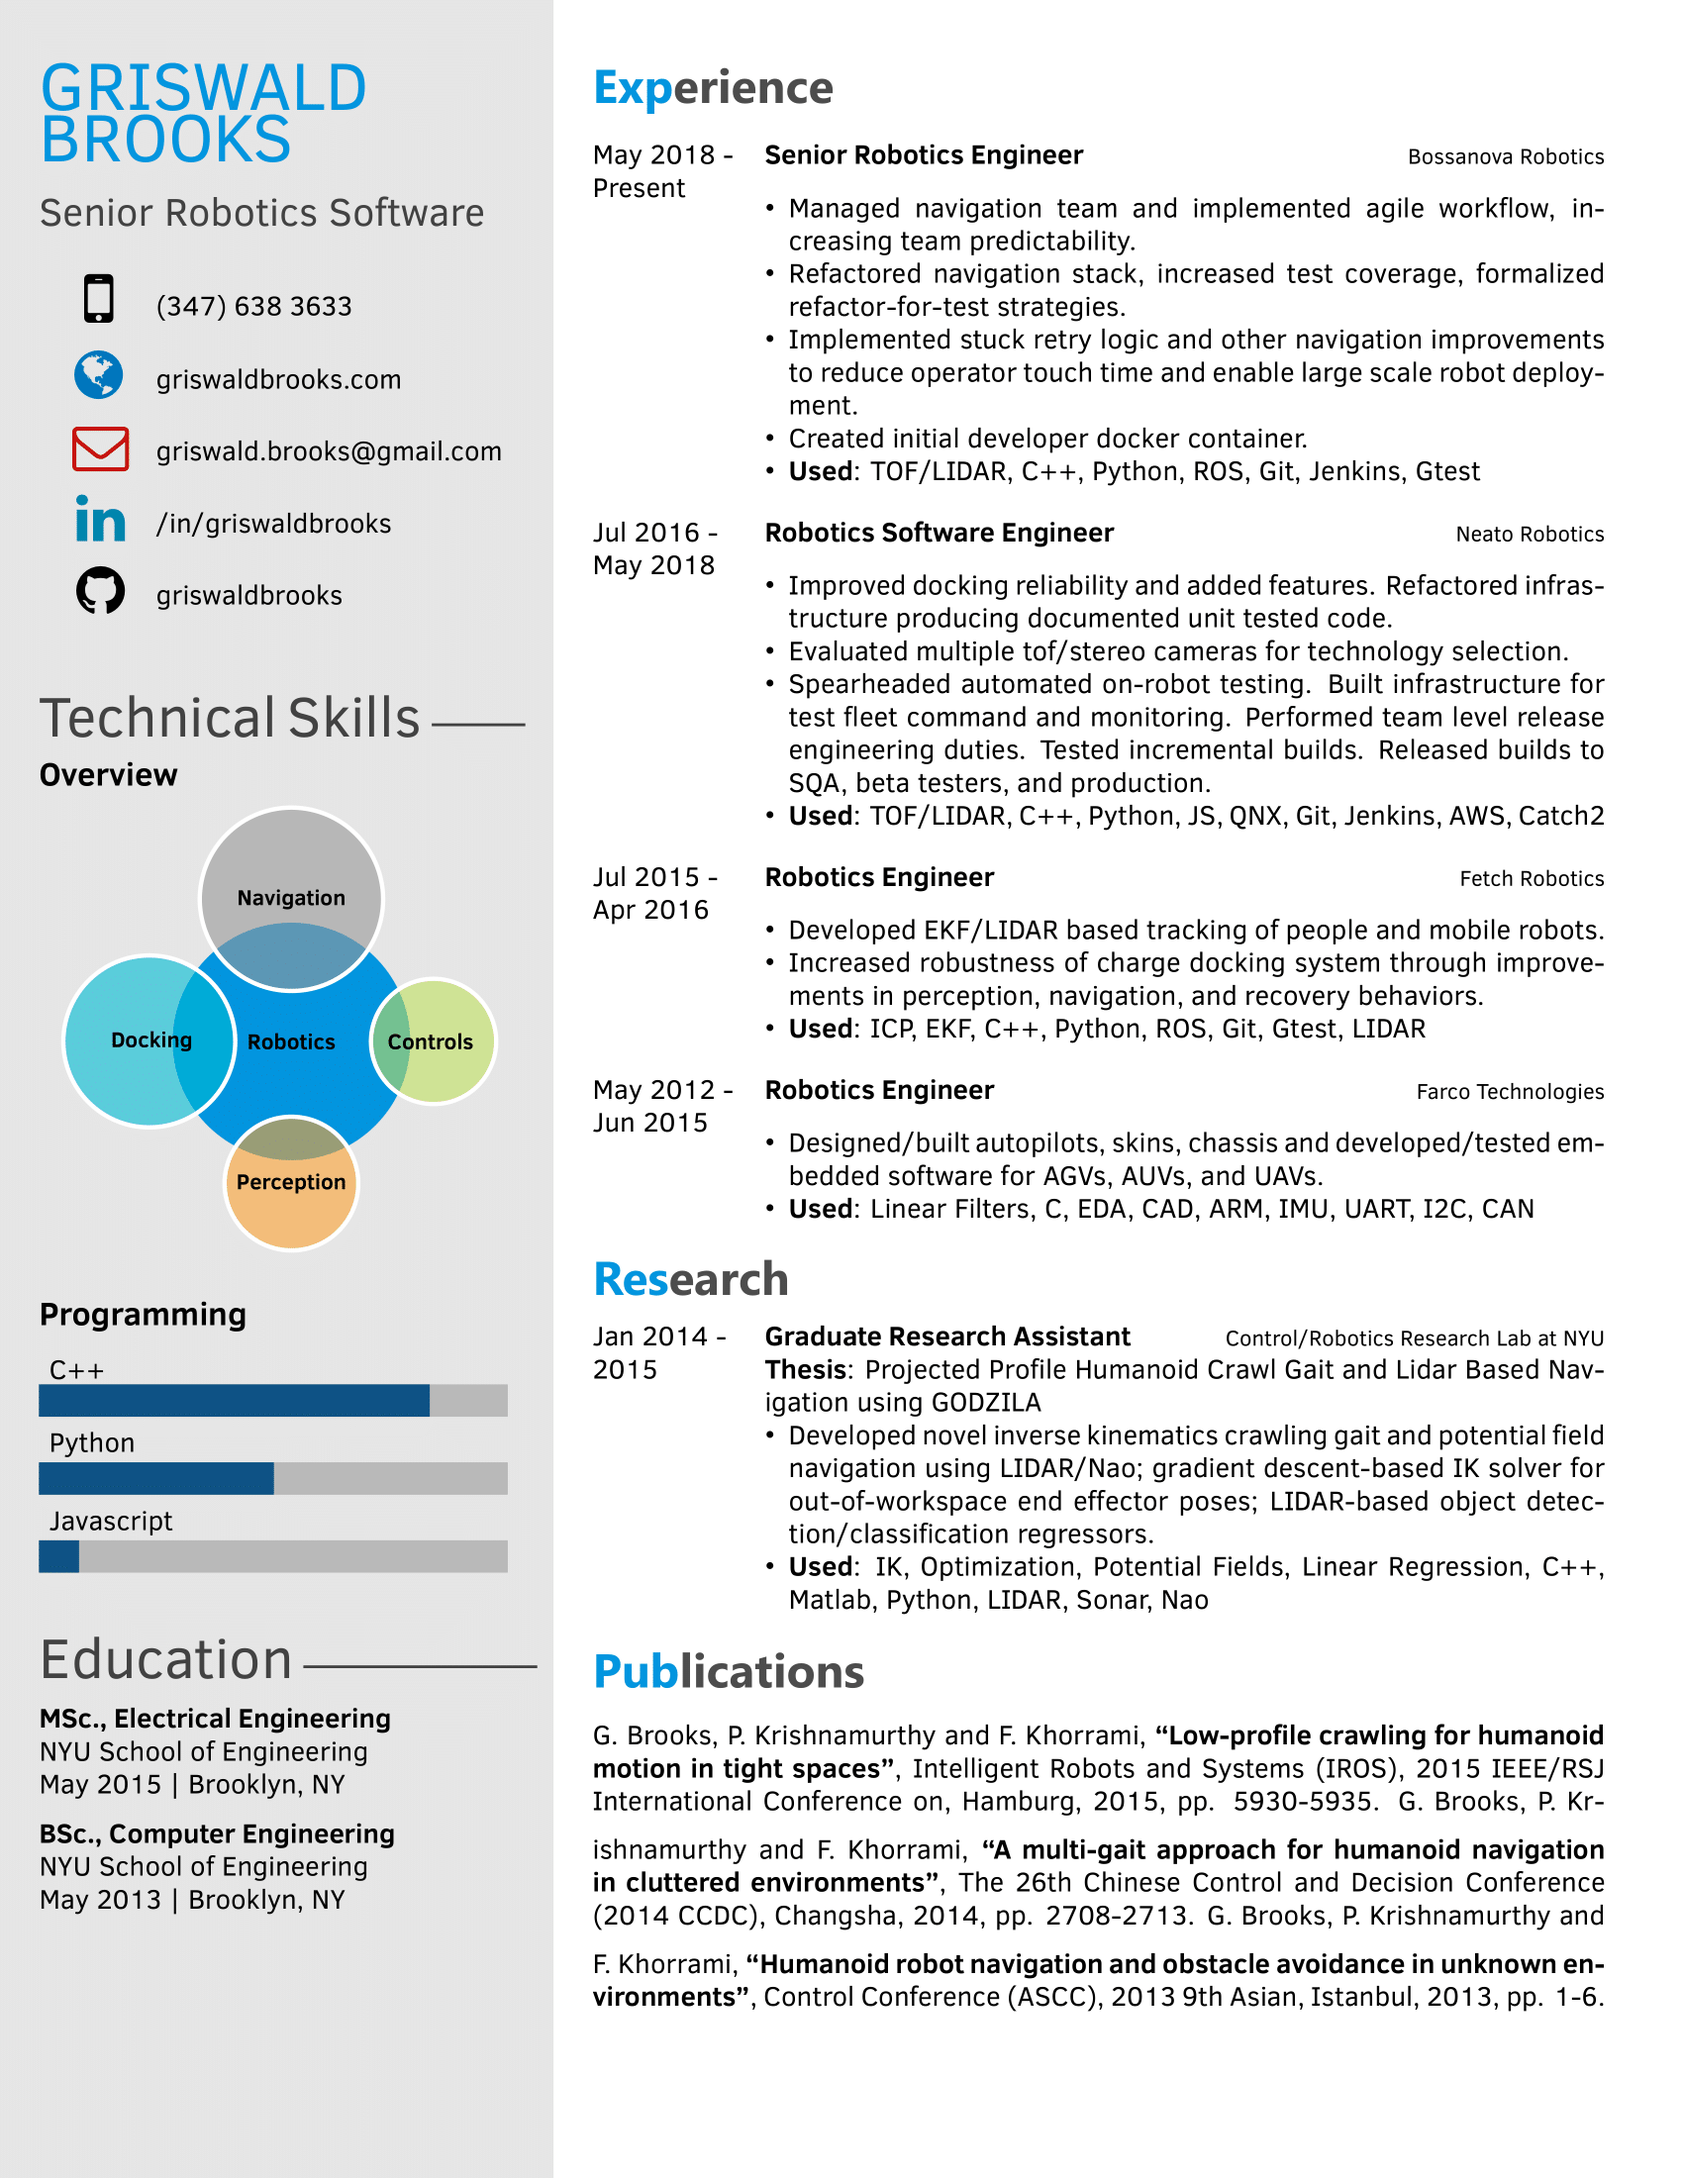
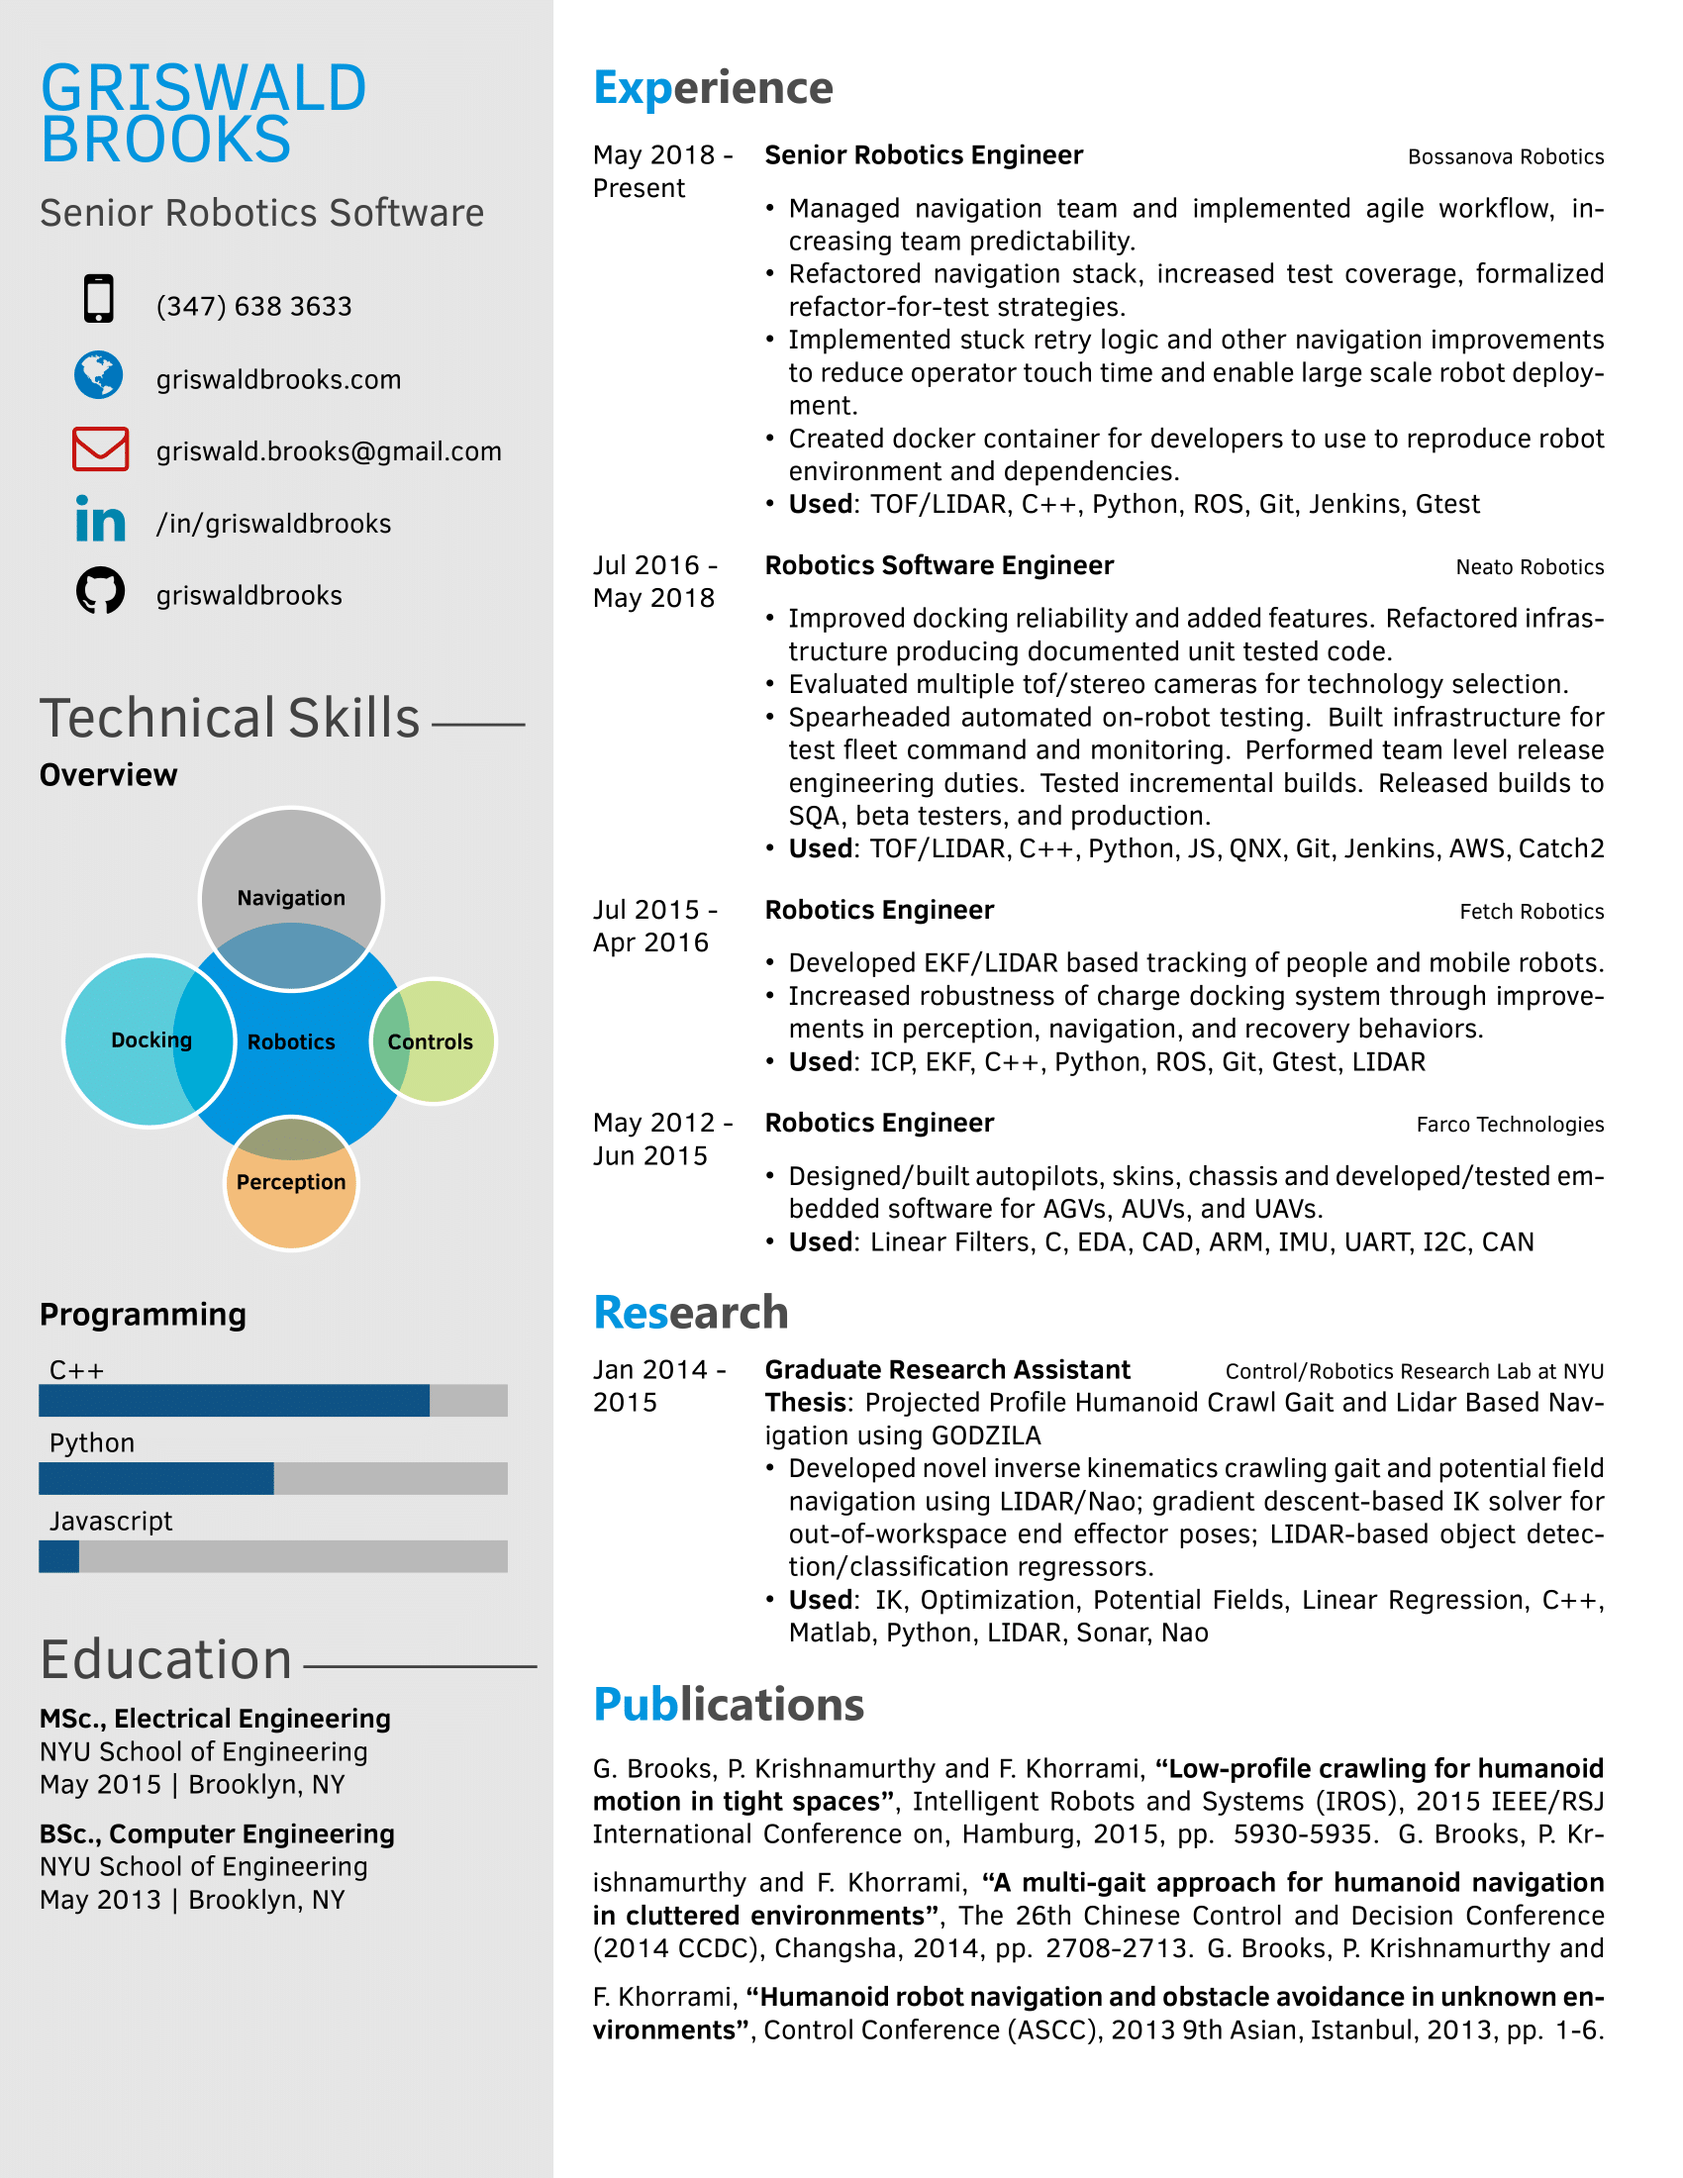
Change devdocker wording

Changed region(s): [[0.3429, 0.1855, 0.9665, 0.9582], [0.3429, 0.2473, 0.4365, 0.2782]]

diff --git a/template.tex b/template.tex
@@ -86,7 +86,7 @@
           \item Refactored navigation stack, increased test coverage, formalized refactor-for-test strategies.
           \item Implemented stuck retry logic and other navigation improvements to
                 reduce operator touch time and enable large scale robot deployment.
-          \item Created initial developer docker container.
+          \item Created docker container for developers to use to reproduce robot environment and dependencies.
           \item \textbf{Used}: TOF/LIDAR, C++, Python, ROS, Git, Jenkins, Gtest
         \end{itemize}}
         \\
